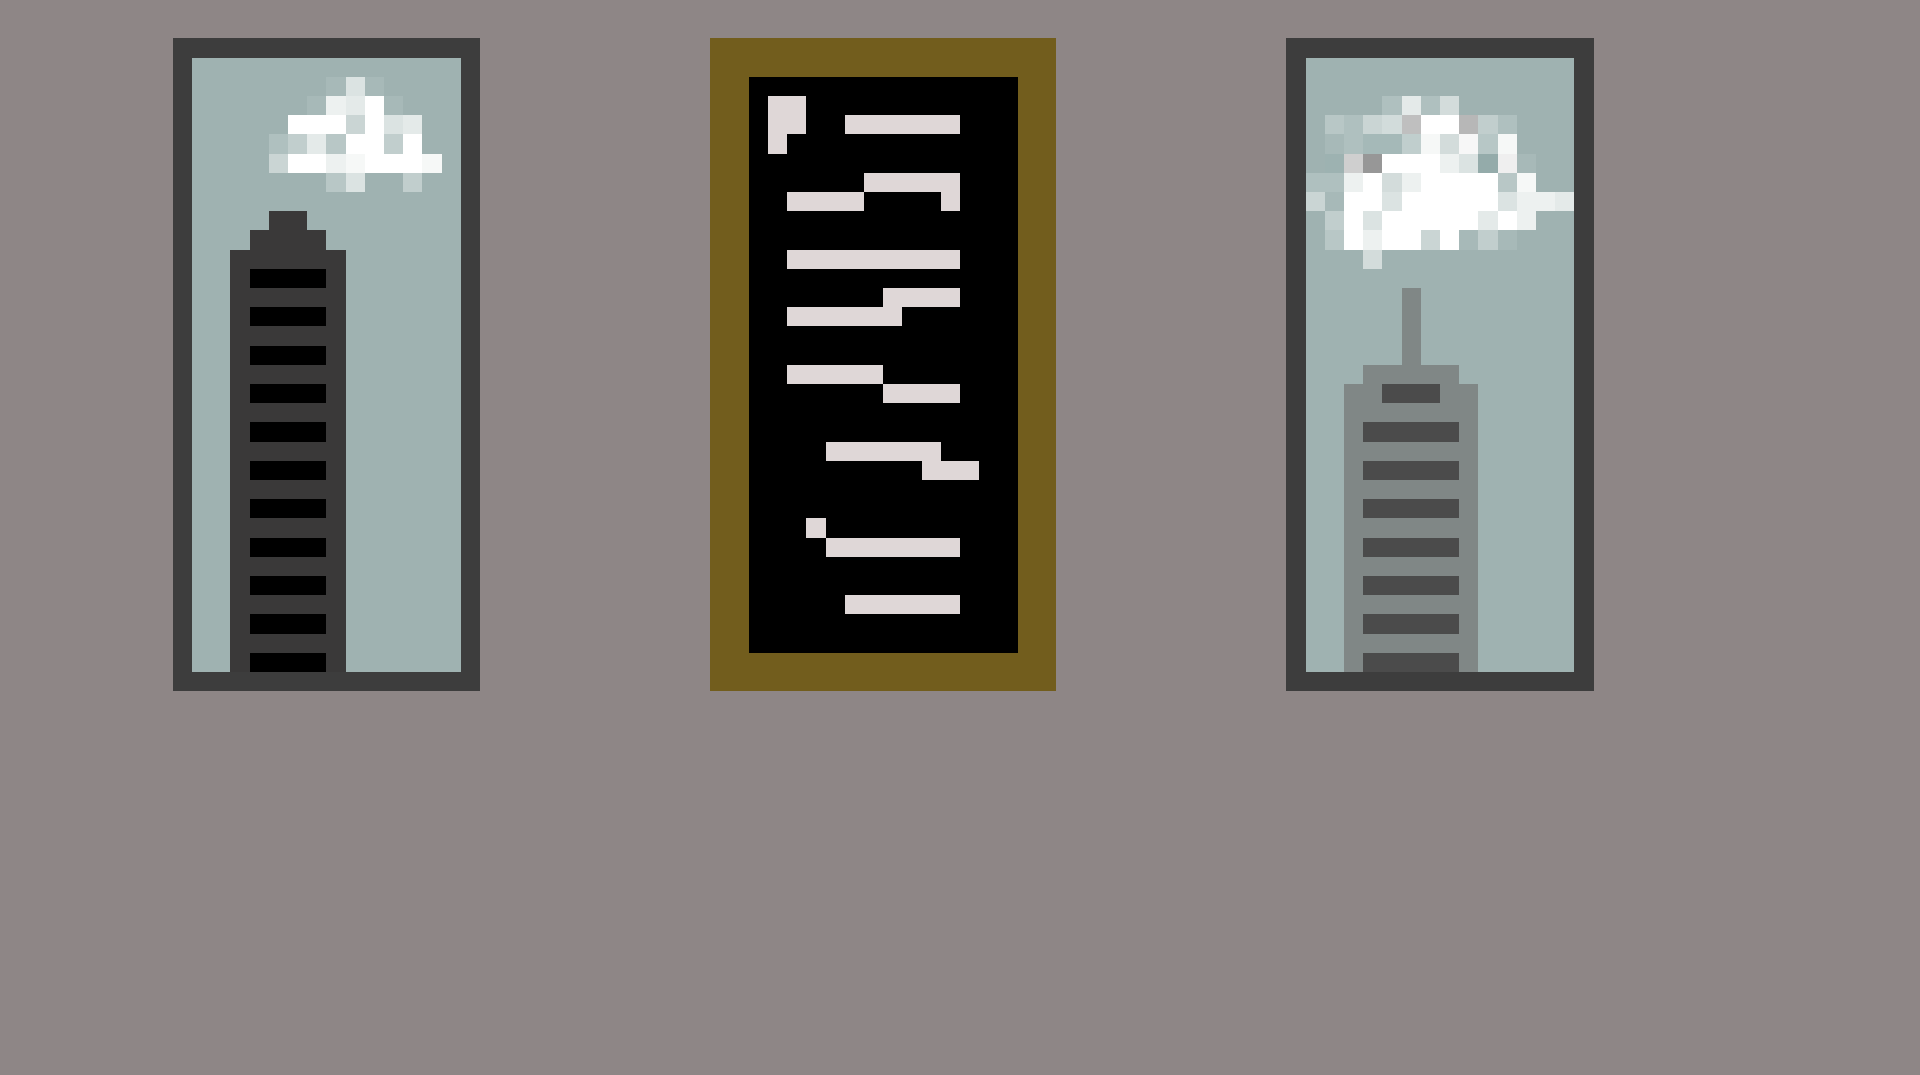
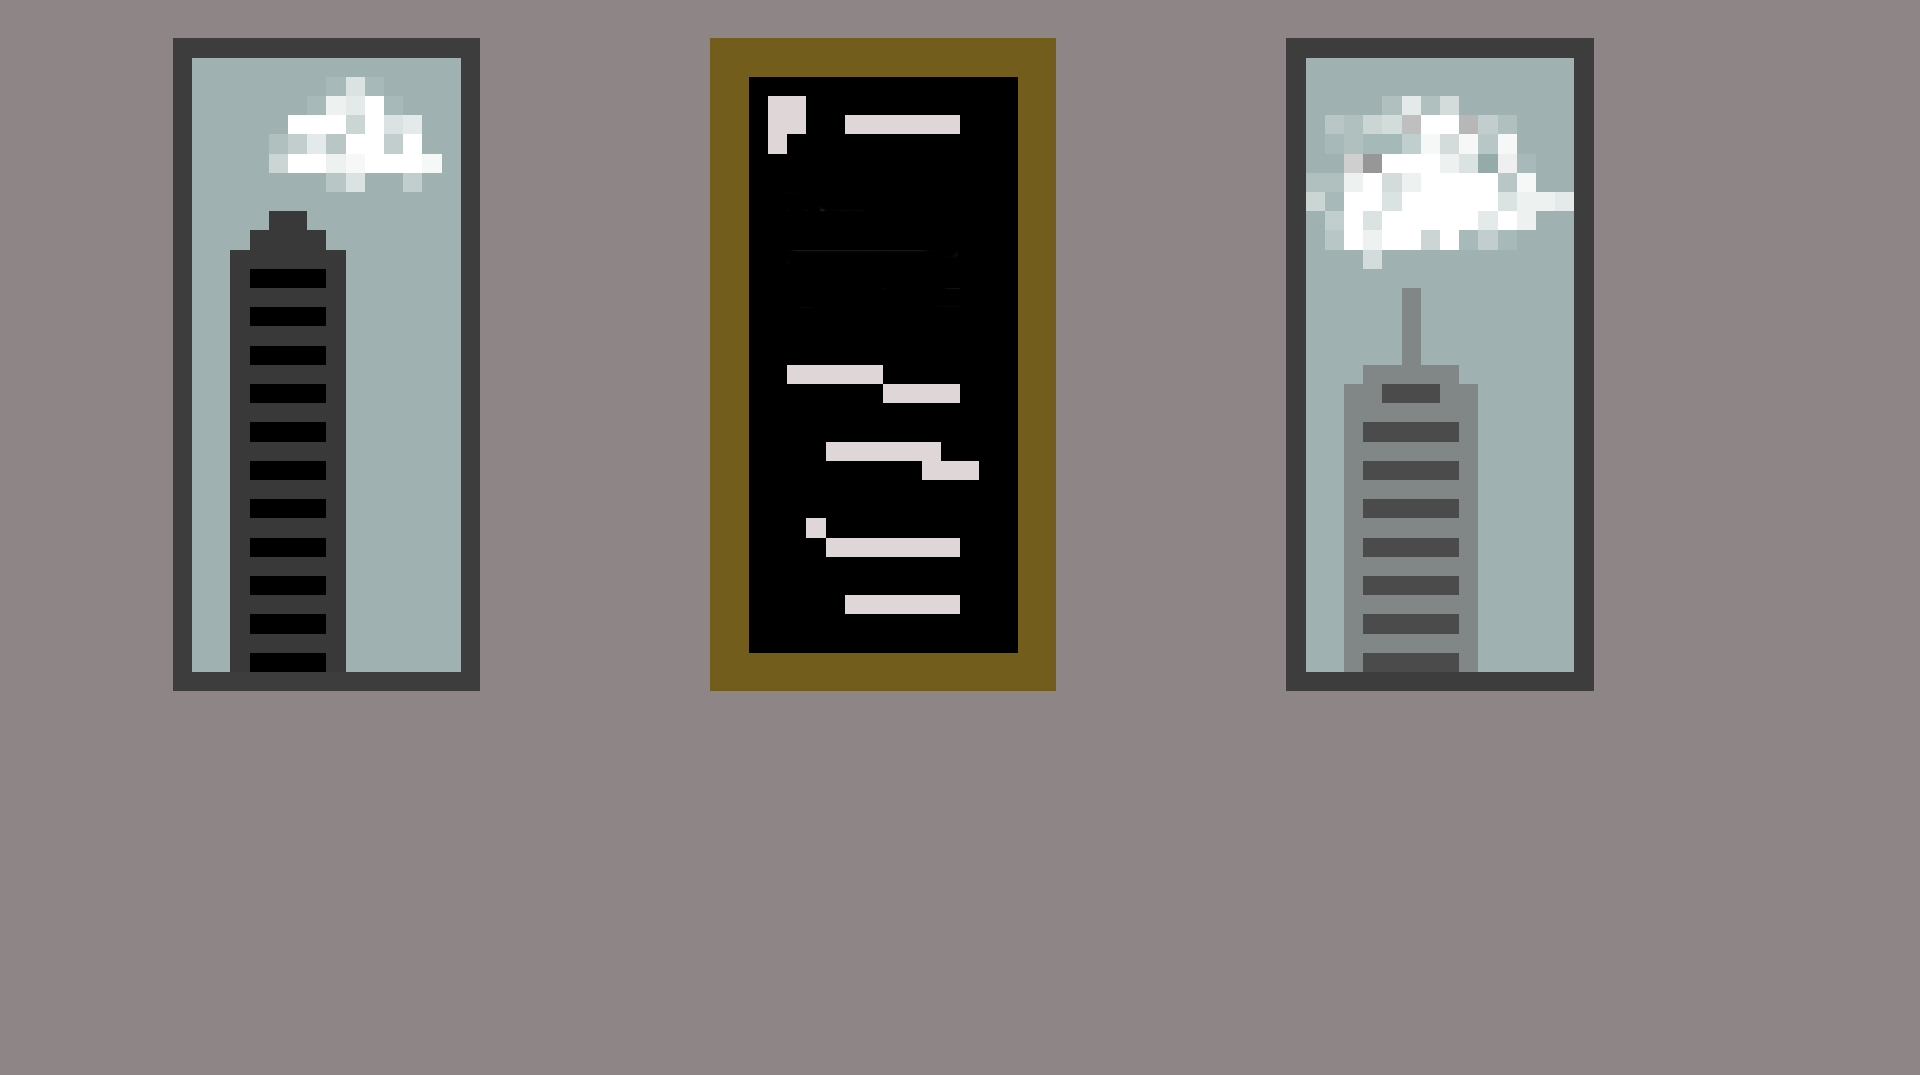
add score

Changed region(s): [[0.4062, 0.1535, 0.5, 0.307]]

diff --git a/src/gameloop_rects.c b/src/gameloop_rects.c
@@ -7,8 +7,46 @@
 
 #include "cook.h"
 
+
+char *get_score(int nb)
+{
+	char *score = malloc(sizeof(char) * 3);
+	int i = 0;
+
+	if (nb >= 100) {
+		score[0] = (48 + (nb / 100));
+		nb = nb % 100;
+		score[1] = (48 + (nb / 10));
+		nb = nb % 10;
+		i = i + 2;
+	} else if (nb >= 10) {
+		score[0] = (48 + (nb / 10));
+		nb = nb % 10;
+		i = i + 1;
+	}
+	score[i] = (48 + nb);
+	score[i + 1] = '\0';
+	return (score);
+}
+
+void end_point_disp(sfRenderWindow *window, int pointnb)
+{
+	sfText *score = sfText_create();
+	sfFont *font = sfFont_createFromFile("./rsrc/font/font.ttf");
+	sfVector2f origin = {780, 180};
+
+	sfText_setString(score, my_strcat("score :\n\n", 2, get_score(pointnb)));
+	sfText_setFont(score, font);
+	sfText_setCharacterSize(score, 50);
+	sfText_move(score, origin);
+	sfRenderWindow_drawText(window, score, NULL);
+	sfText_destroy(score);
+	sfFont_destroy(font);
+}
+
+
 void game_loop(sfRenderWindow *window, sprite_t **bg,
-		sprite_t **brk, sprite_t **ing)
+	       sprite_t **brk, sprite_t **ing)
 {
 	sfClock *clock = sfClock_create();
 	game_t *game = malloc(sizeof(game_t *) * 10);
@@ -19,7 +57,7 @@ void game_loop(sfRenderWindow *window, sprite_t **bg,
 	srand((long long)&game);
 	while (sfRenderWindow_isOpen(window)) {
 		if (sfTime_asMicroseconds
-			(sfClock_getElapsedTime(clock)) > time_i) {
+		    (sfClock_getElapsedTime(clock)) > time_i) {
 			game->sec = 1;
 			sfClock_restart(clock);
 		} else
@@ -32,7 +70,6 @@ void game_loop(sfRenderWindow *window, sprite_t **bg,
 		if (bg[0]->o_sprt == 1)
 			display_game(window, bg, ing, game);
 		launch_pause_help_end(window, bg, brk, game->sec);
-		my_printf("point-> %d\n", game->point);
 	}
 }
 

diff --git a/src/game.c b/src/game.c
@@ -39,7 +39,7 @@ void game_event(sfRenderWindow *window, sprite_t **bg, sprite_t **ing)
 }
 
 void display_game(sfRenderWindow *window, sprite_t **bg,
-		sprite_t **ing, game_t *game)
+		  sprite_t **ing, game_t *game)
 {
 	add_cmd(game);
 	clean_game_bool(ing, bg);
@@ -52,6 +52,7 @@ void display_game(sfRenderWindow *window, sprite_t **bg,
 	make_comandes(ing);
 	drawer_game(window, bg, ing, game);
 	disp_cmd(window, game, 0);
+	end_point_disp(window, game->point);
 	sfRenderWindow_display(window);
 }
 

diff --git a/src/cmd.c b/src/cmd.c
@@ -11,6 +11,8 @@ void rm_point(game_t *game)
 {
 	if (game->point >= 5)
 		game->point = game->point - 5;
+	else
+		game->point = 0;
 }
 
 void rm_from_cmd(game_t *game, int nb_cmd)
